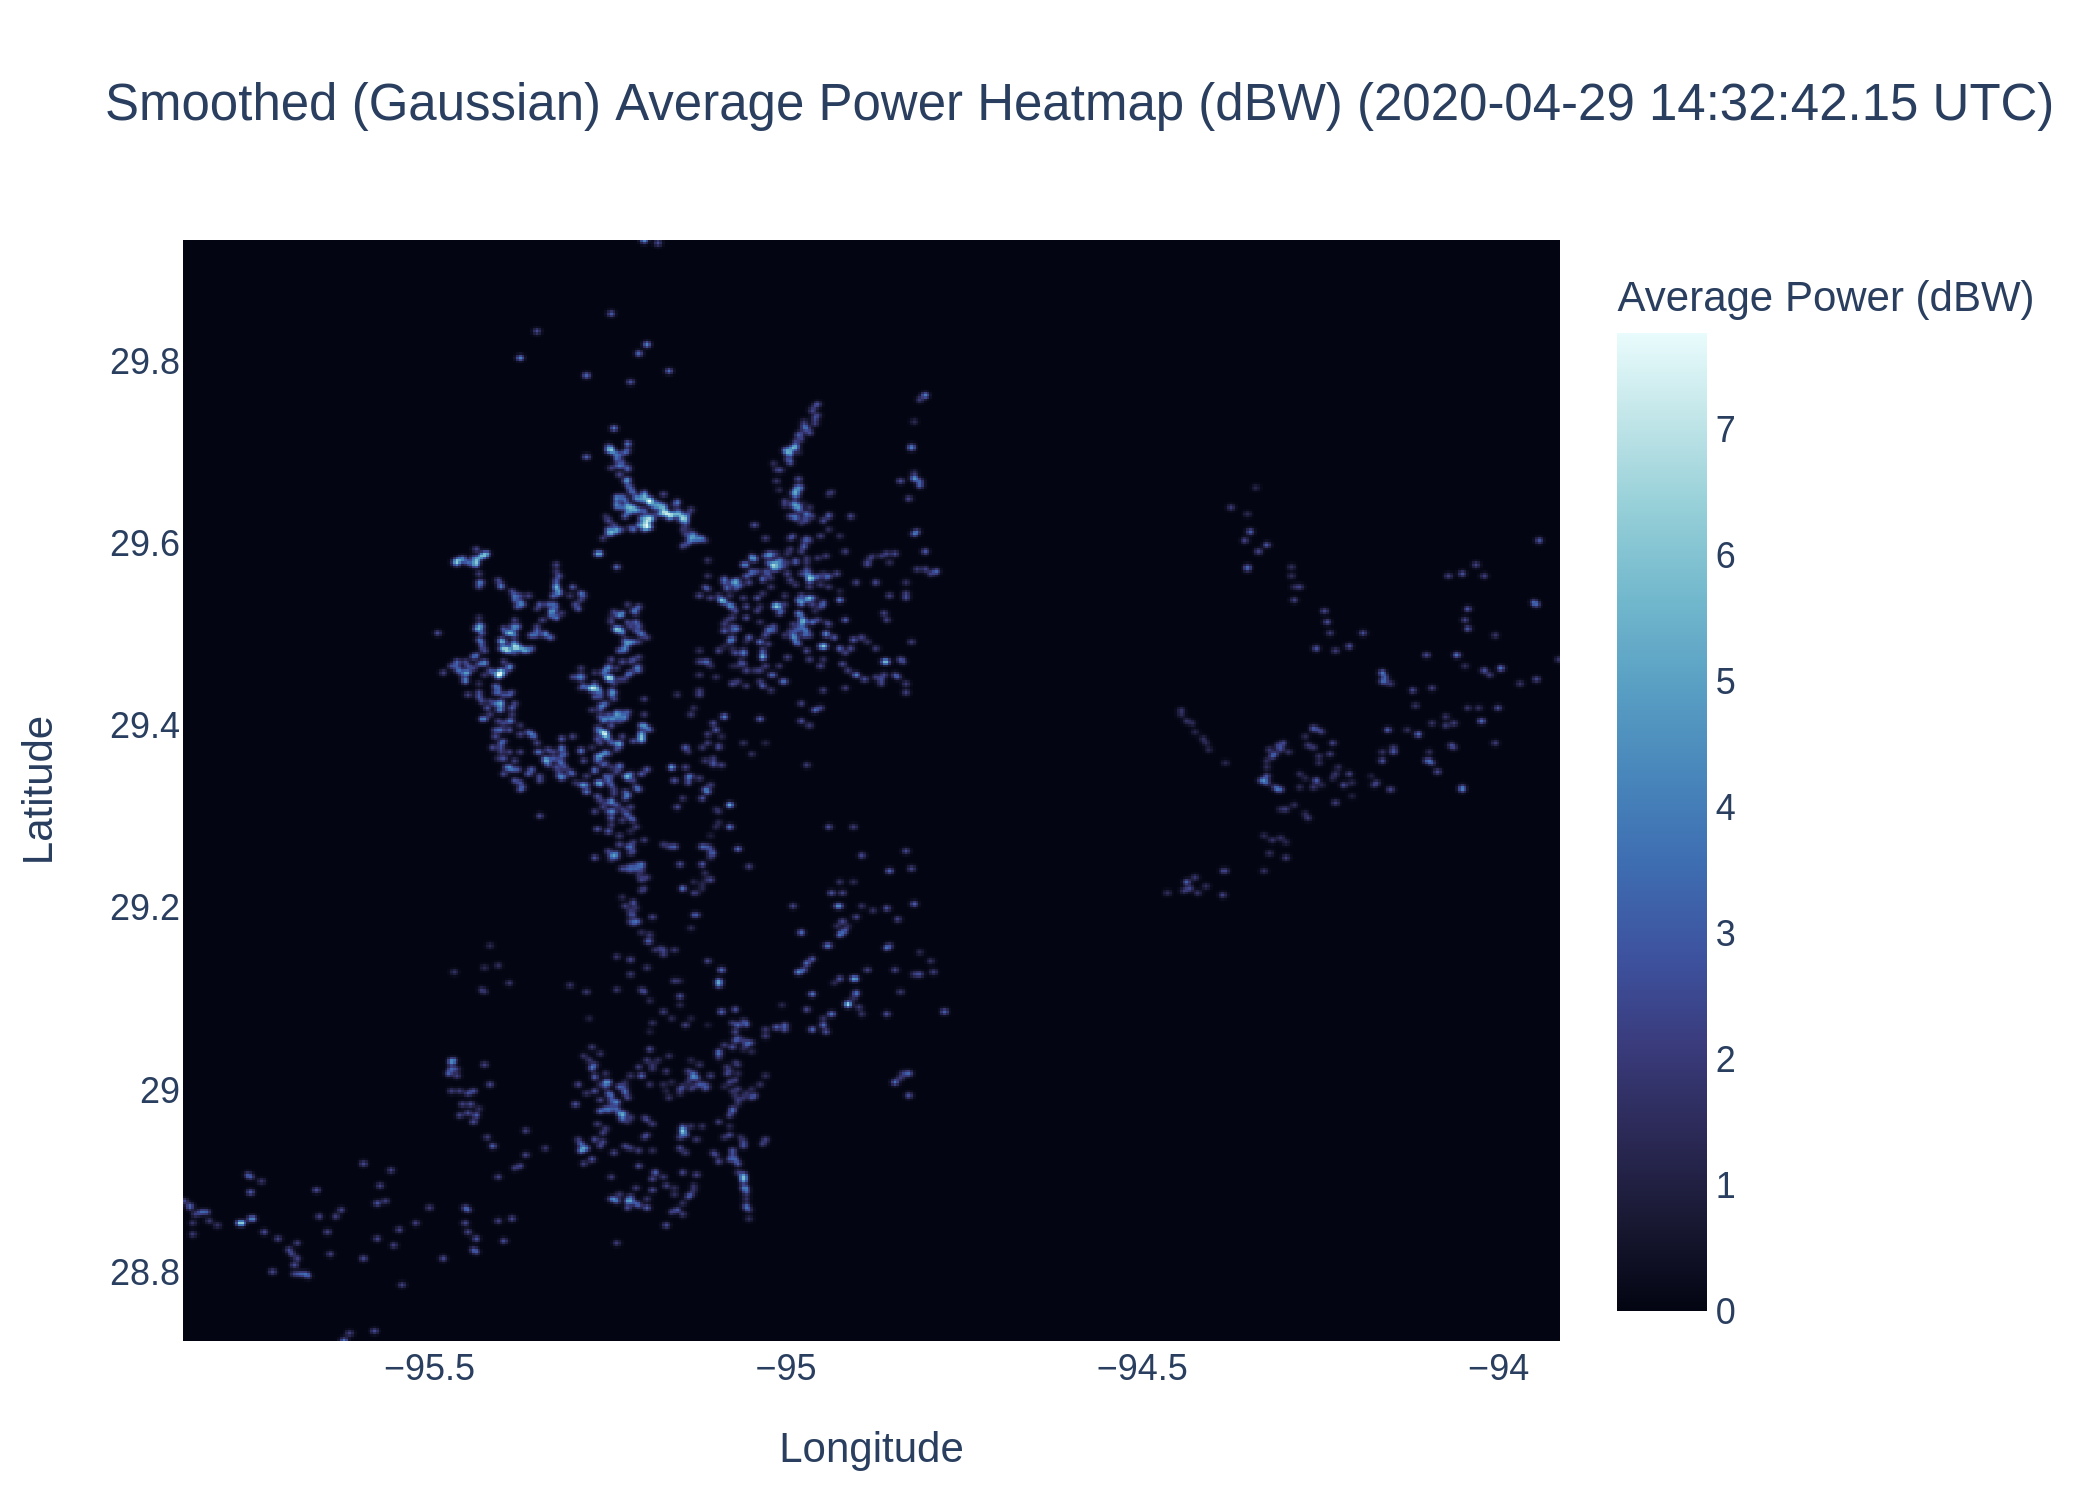
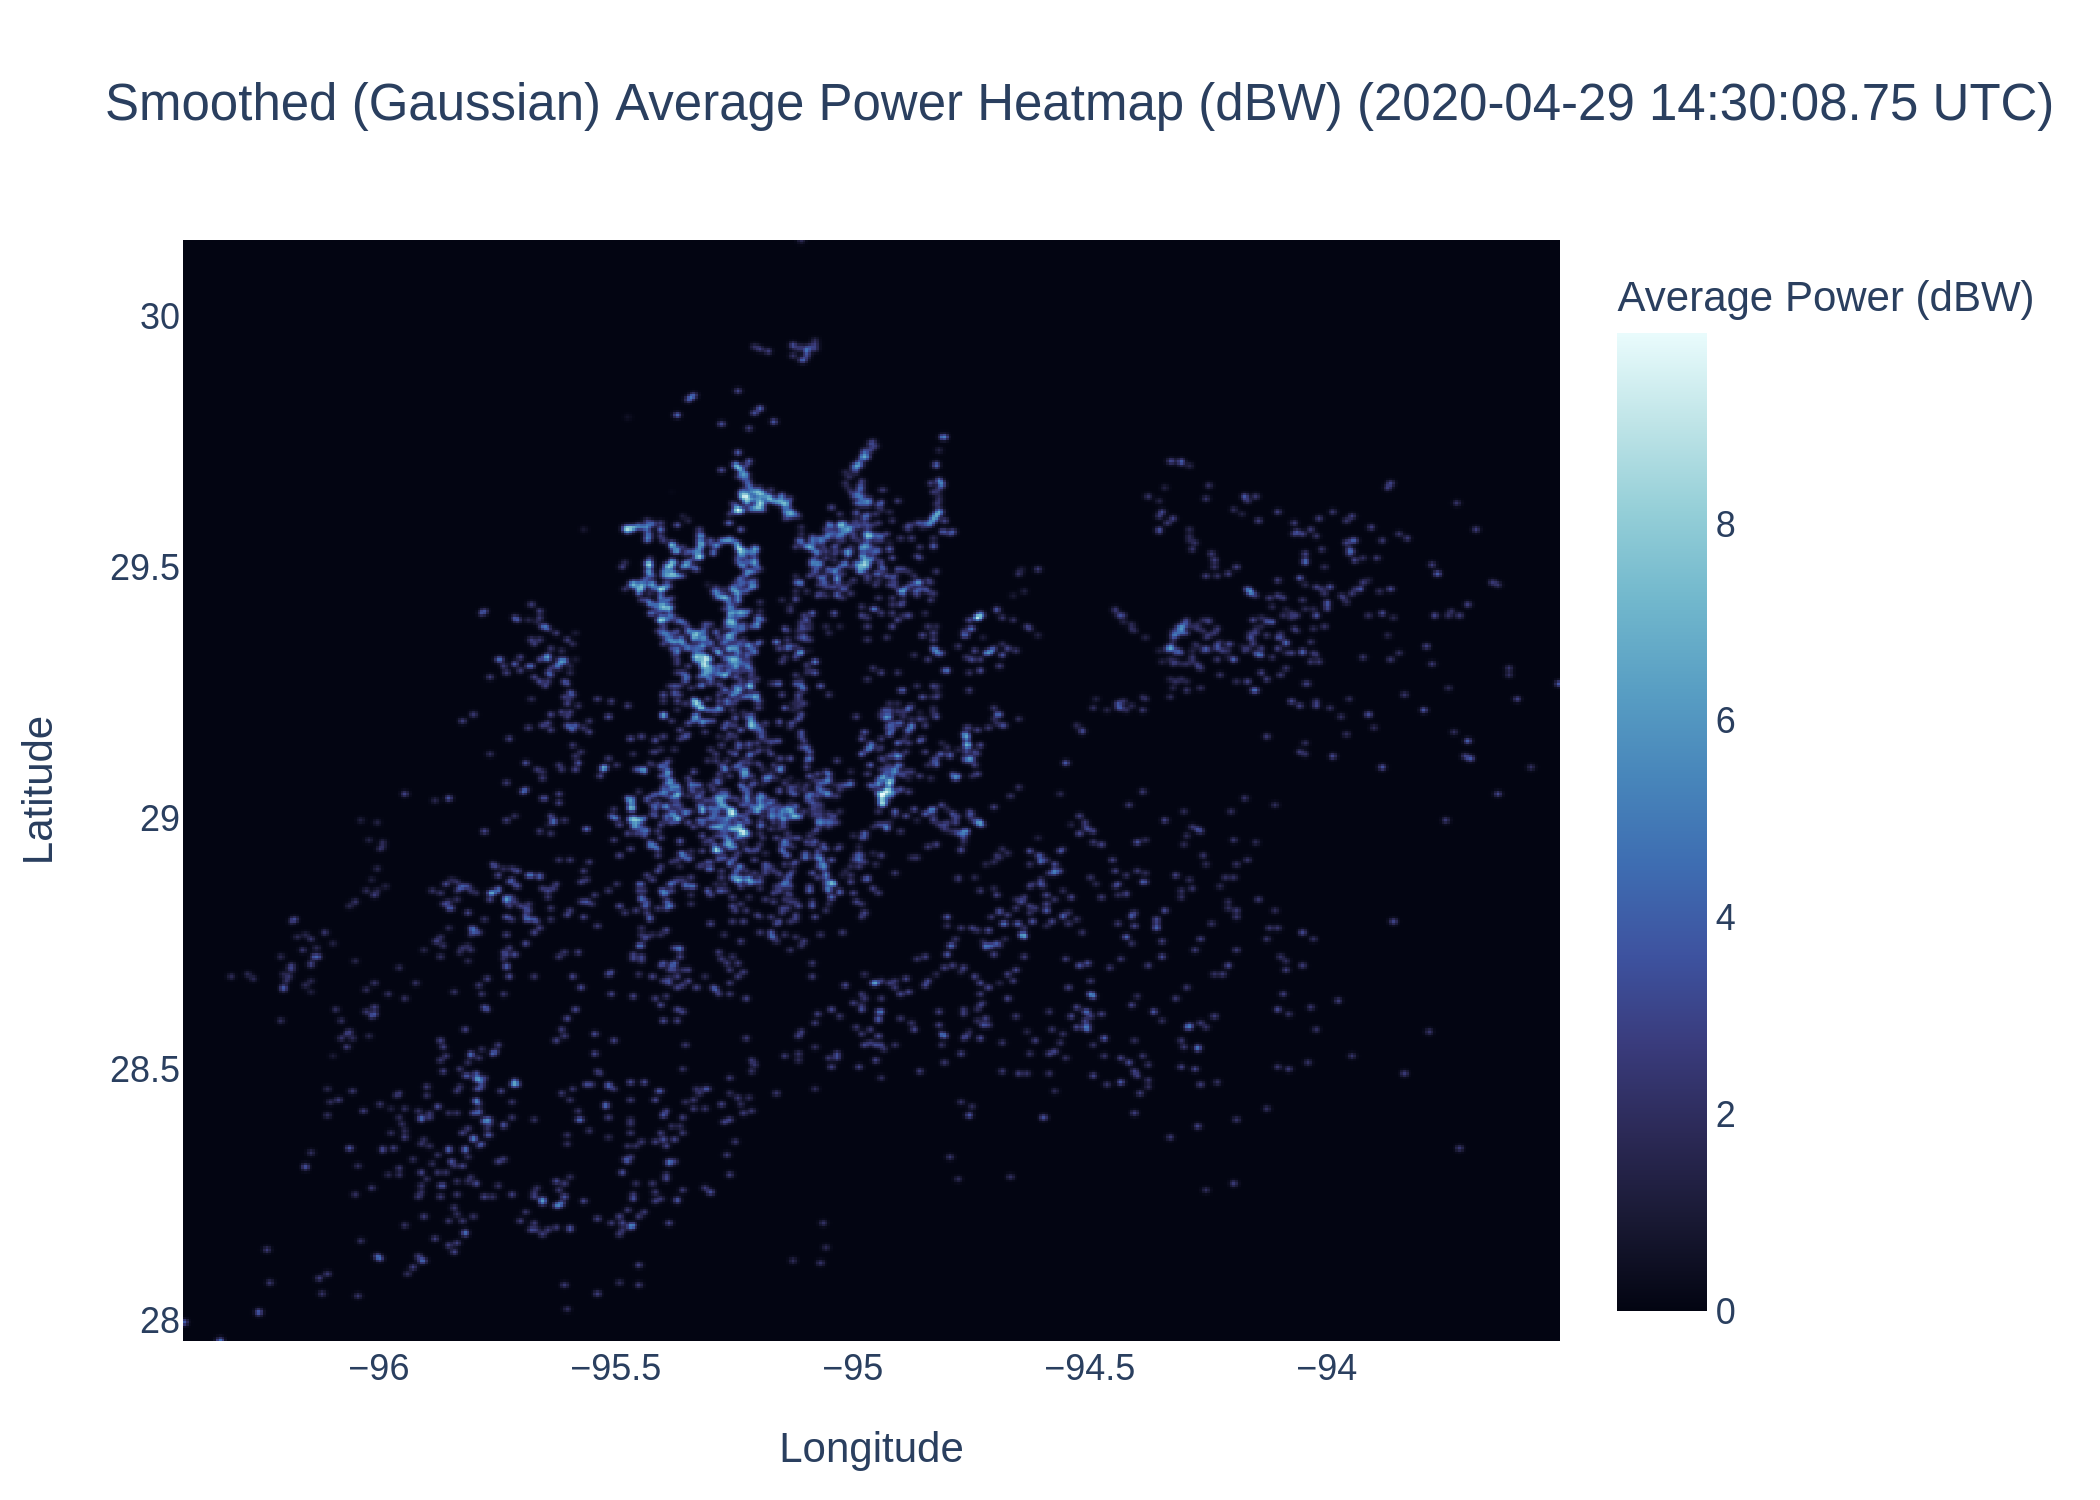
Megastrike works

diff --git a/main.py b/main.py
@@ -162,17 +162,17 @@ if events.empty:
 # They are explicitly defined
 params = {
     # Creating an initial lightning strike
-    "max_lightning_dist": 10000,  # Max distance between two points to determine it being involved in the same strike
-    "max_lightning_speed": 299792.458,  # Max speed between two points in m/s (essentially dx/dt)
+    "max_lightning_dist": 30000,  # Max distance between two points to determine it being involved in the same strike
+    "max_lightning_speed": 1.4e8,  # Max speed between two points in m/s (essentially dx/dt)
     "min_lightning_speed": 0,  # Min speed between two points in m/s (essentially dx/dt)
     "min_lightning_points": 100,  # The minimum number of points to pass the system as a "lightning strike"
     "max_lightning_time_threshold": 0.3,  # Max number of seconds between points 
-    "max_lightning_duration": 20, # Max seconds that define an entire lightning strike. This is essentially a "time window" for all of the points to fill the region that determines a "lightning strike"
+    "max_lightning_duration": 40, # Max seconds that define an entire lightning strike. This is essentially a "time window" for all of the points to fill the region that determines a "lightning strike"
 
     # Combining intercepting lightning strike data filtering
     "combine_strikes_with_intercepting_times": True, # Set to true to ensure that strikes with intercepting times get combined. 
     "intercepting_times_extension_buffer": 3, # Number of seconds of additional overlap to allow an additional strike to be involved
-    "intercepting_times_extension_max_distance": 150000 # The max distance between the start point of one lightning strike and at least one from the entirety of another lightning strike's points
+    "intercepting_times_extension_max_distance": 200000 # The max distance between the start point of one lightning strike and at least one from the entirety of another lightning strike's points
 }
 
 lightning_bucketer.USE_CACHE = True  # Generate cache of result to save time for future identical (one-to-one exact) requests
